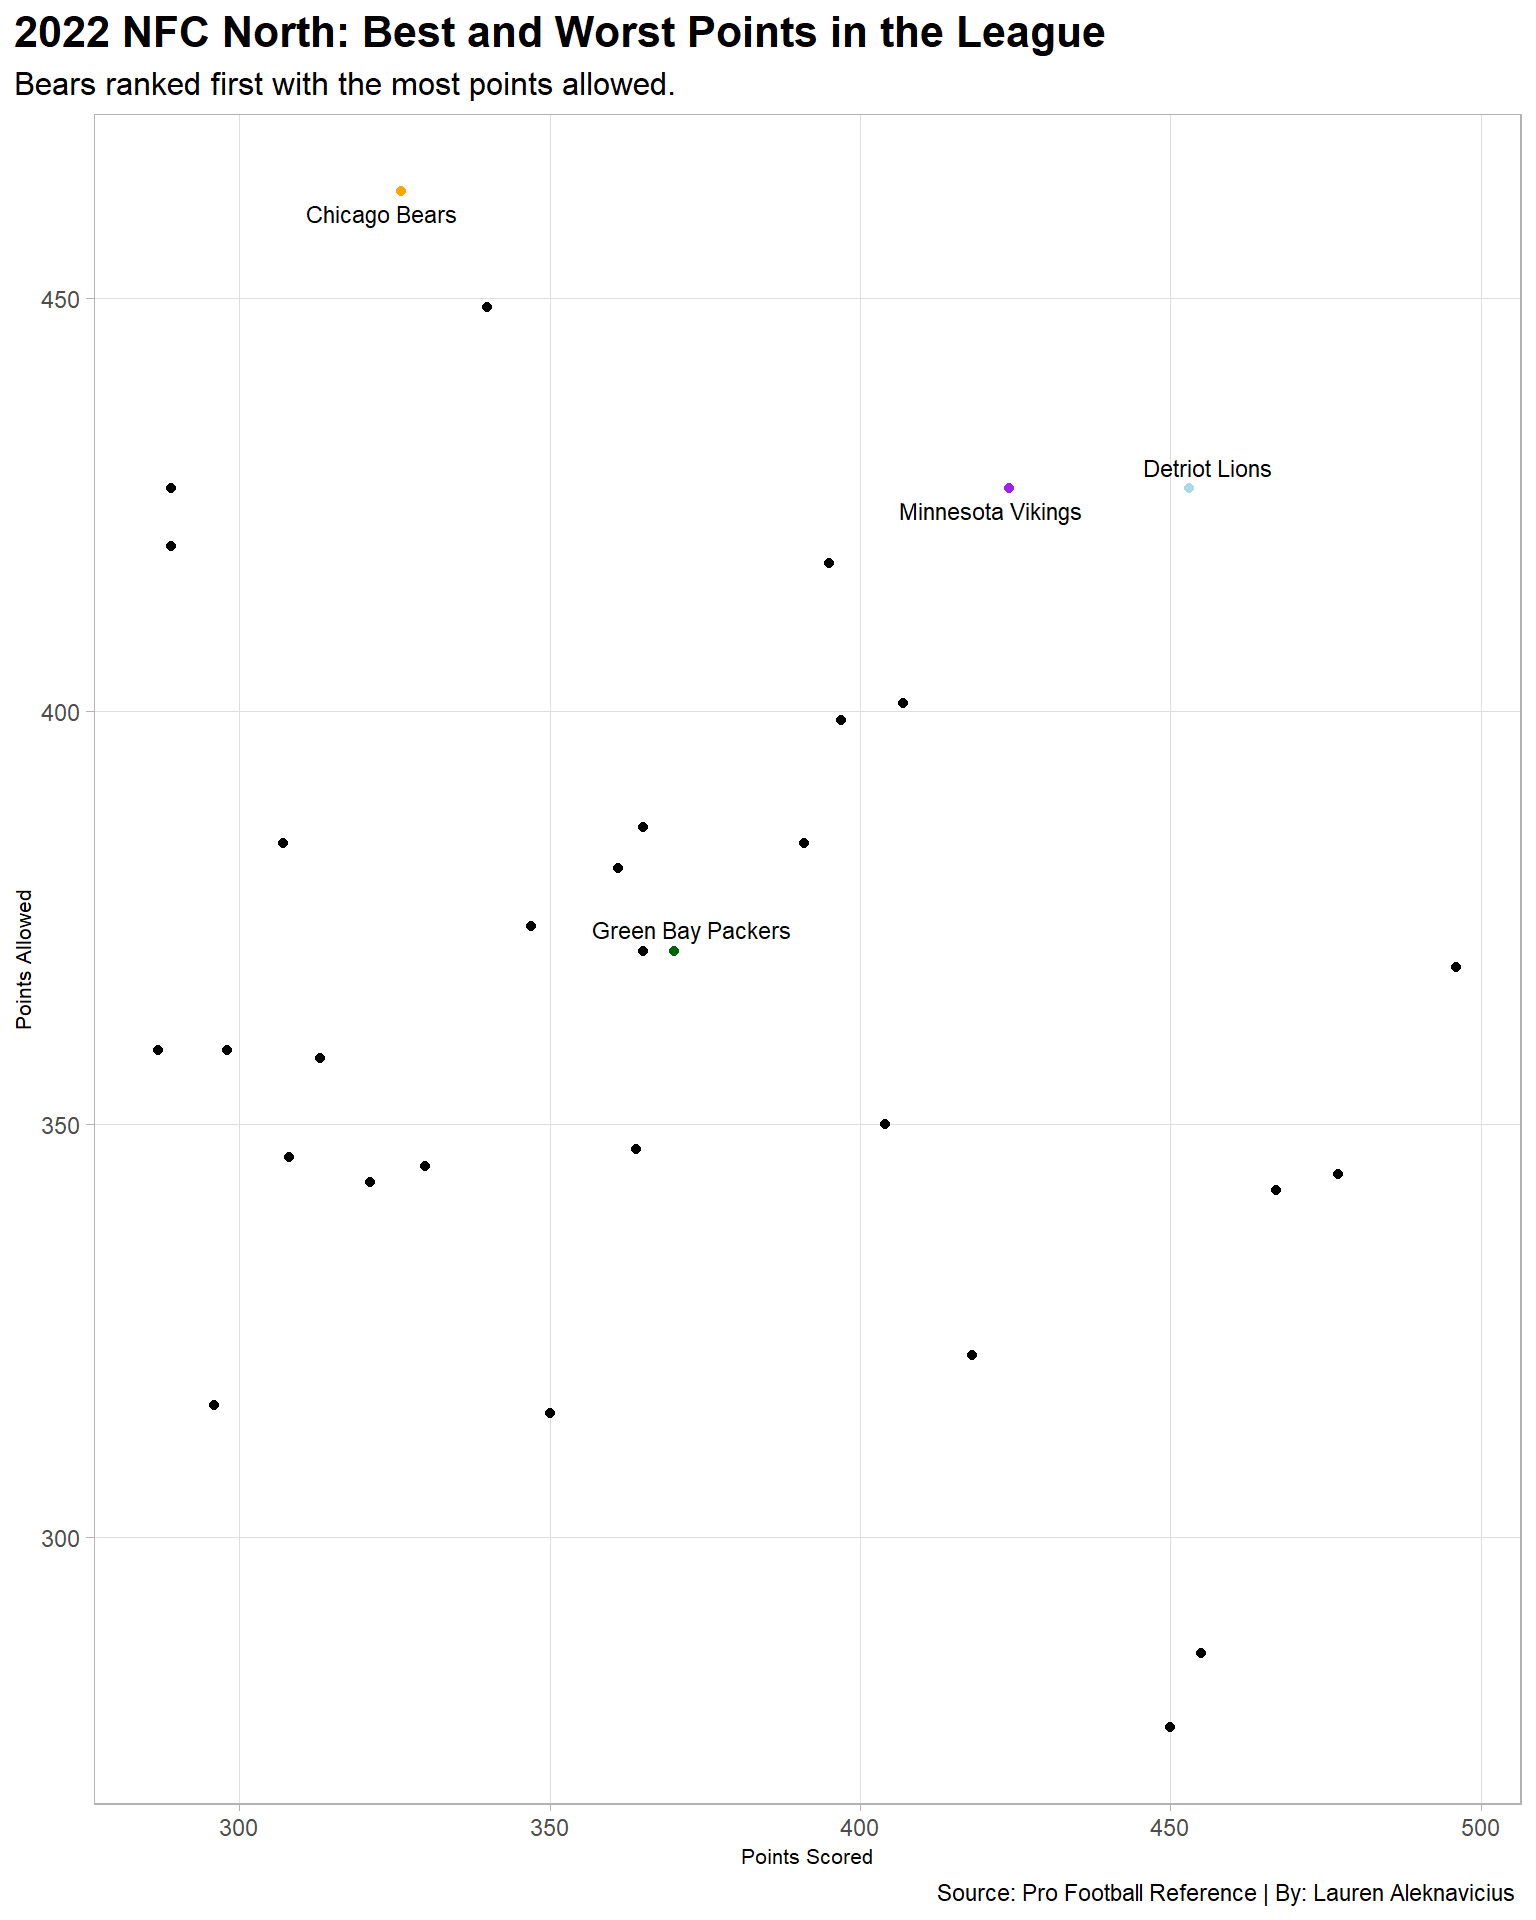
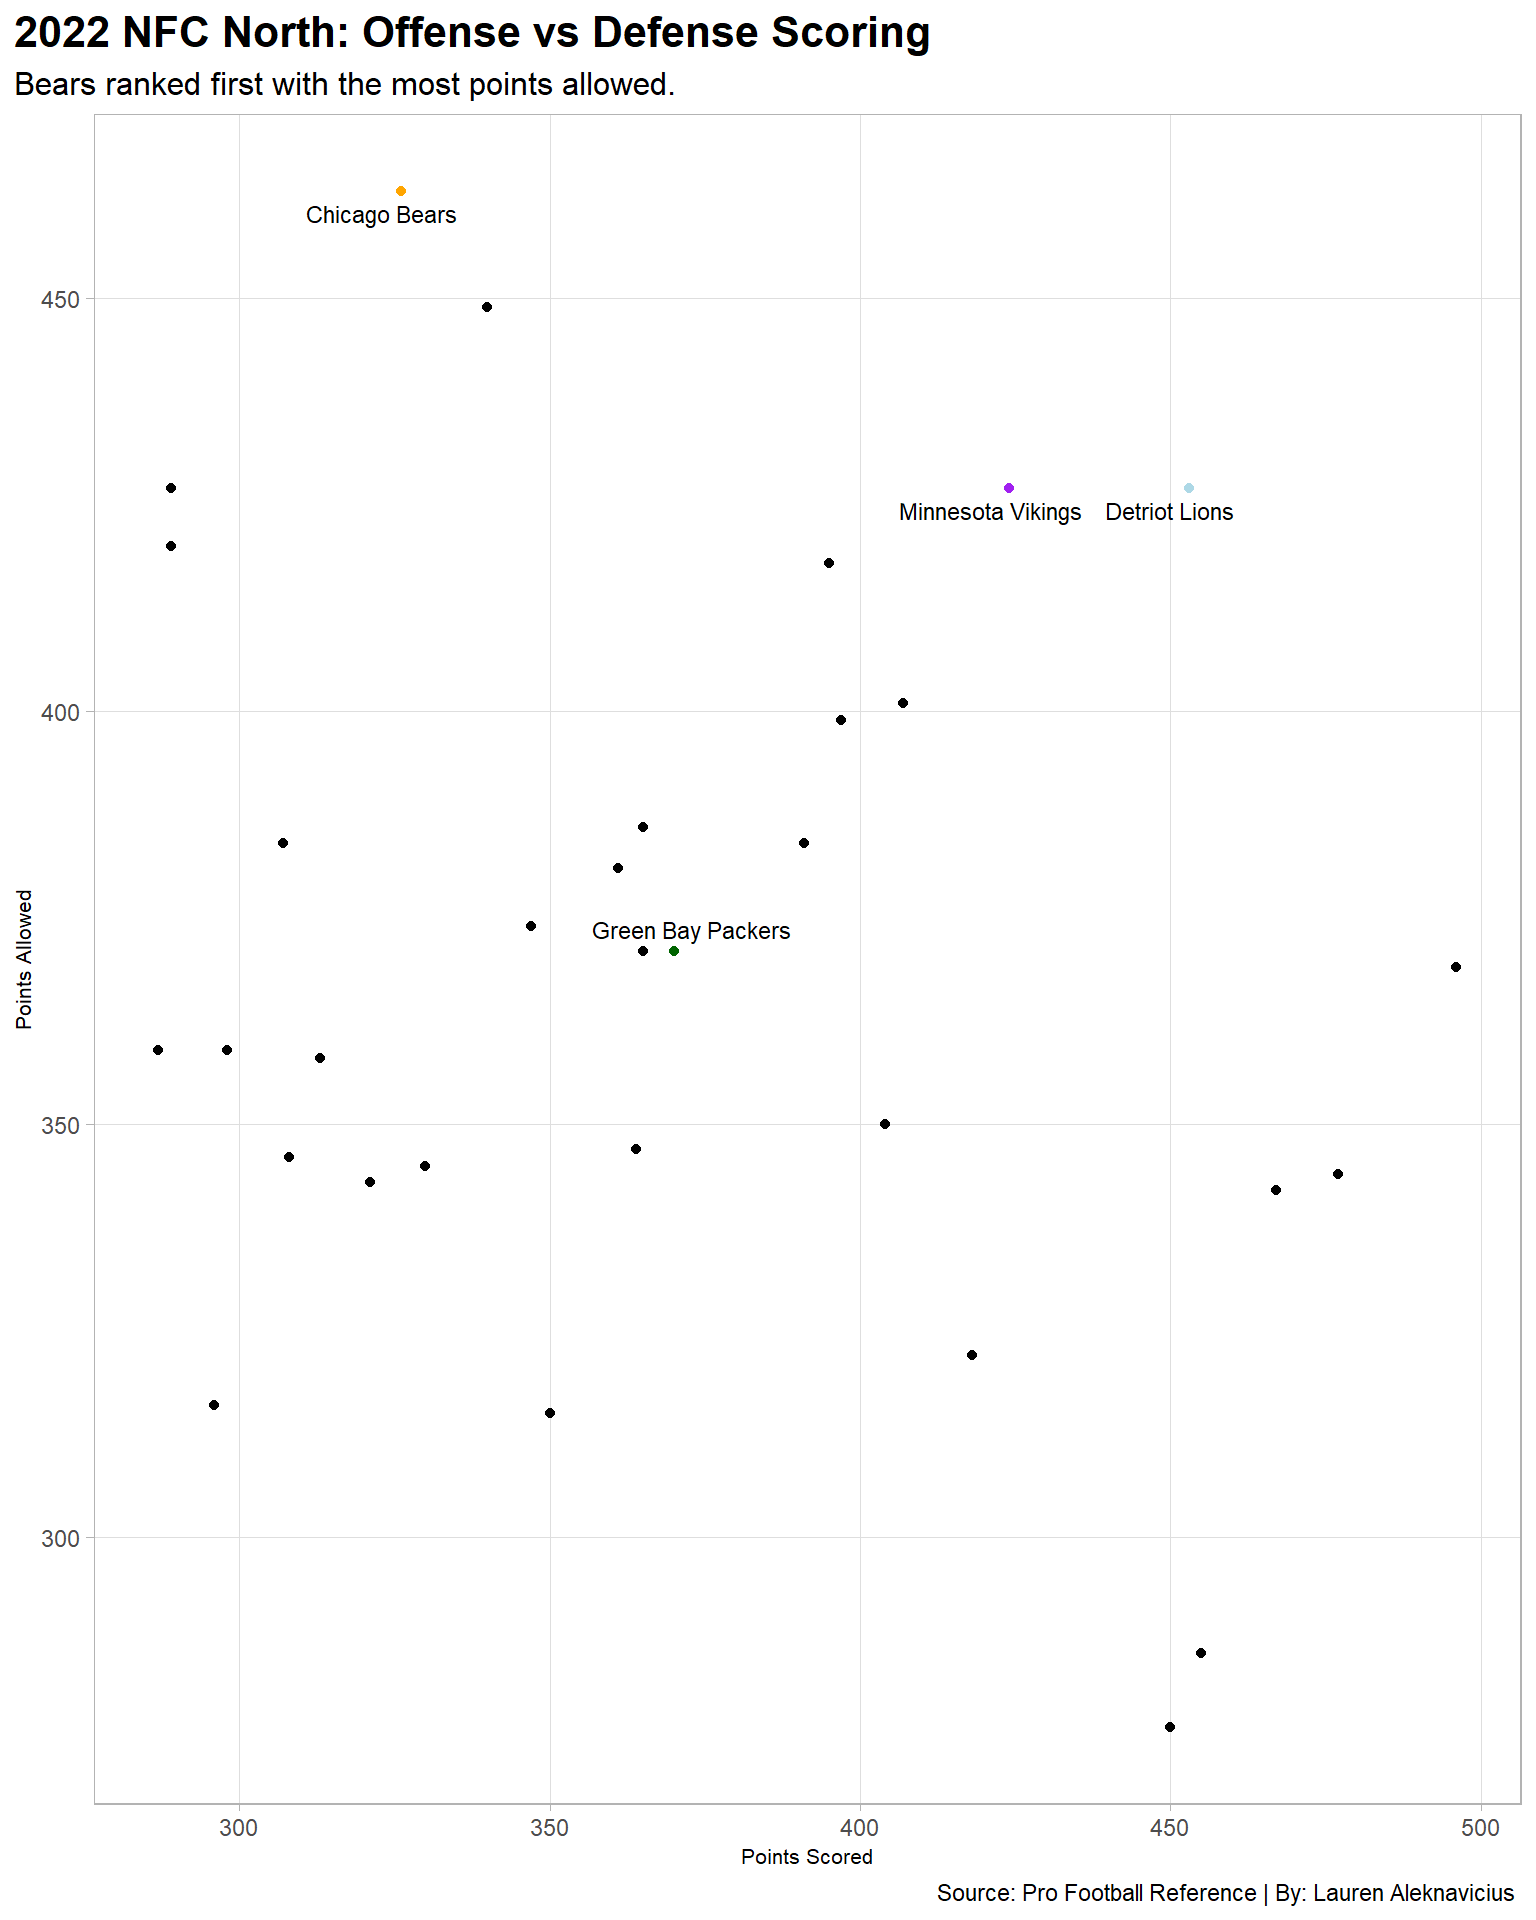
Chart headline

Changed region(s): [[0.25, 0.0, 0.7188, 0.0312], [0.7188, 0.2188, 0.8125, 0.2812]]

diff --git a/posts/middle-of-the-pack/index.html b/posts/middle-of-the-pack/index.html
@@ -369,7 +369,7 @@ pre > code.sourceCode > span > a:first-child::before { text-decoration: underlin
 <span id="cb3-25"><a href="#cb3-25" aria-hidden="true" tabindex="-1"></a>  <span class="fu">geom_text_repel</span>(<span class="at">data=</span>gbtd, <span class="fu">aes</span>(<span class="at">x=</span>PF, <span class="at">y=</span>PA, <span class="at">label=</span><span class="st">"Green Bay Packers"</span>), <span class="at">size=</span><span class="dv">3</span>) <span class="sc">+</span></span>
 <span id="cb3-26"><a href="#cb3-26" aria-hidden="true" tabindex="-1"></a>  <span class="fu">geom_text_repel</span>(<span class="at">data=</span>mntd, <span class="fu">aes</span>(<span class="at">x=</span>PF, <span class="at">y=</span>PA, <span class="at">label=</span><span class="st">"Minnesota Vikings"</span>), <span class="at">size=</span><span class="dv">3</span>) <span class="sc">+</span></span>
 <span id="cb3-27"><a href="#cb3-27" aria-hidden="true" tabindex="-1"></a>  <span class="fu">labs</span>(</span>
-<span id="cb3-28"><a href="#cb3-28" aria-hidden="true" tabindex="-1"></a>    <span class="at">title =</span> <span class="st">"2022 NFC North: Best and Worst Points in the League"</span>,</span>
+<span id="cb3-28"><a href="#cb3-28" aria-hidden="true" tabindex="-1"></a>    <span class="at">title =</span> <span class="st">"2022 NFC North: Offense vs Defense Scoring"</span>,</span>
 <span id="cb3-29"><a href="#cb3-29" aria-hidden="true" tabindex="-1"></a>    <span class="at">subtitle =</span> <span class="st">"Bears ranked first with the most points allowed."</span>,</span>
 <span id="cb3-30"><a href="#cb3-30" aria-hidden="true" tabindex="-1"></a>    <span class="at">caption =</span> <span class="st">"Source: Pro Football Reference | By: Lauren Aleknavicius "</span>,</span>
 <span id="cb3-31"><a href="#cb3-31" aria-hidden="true" tabindex="-1"></a>    <span class="at">x=</span> <span class="st">"Points Scored"</span>,</span>

diff --git a/index.html b/index.html
@@ -170,7 +170,7 @@ ul.task-list li input[type="checkbox"] {
 
 <div class="quarto-listing quarto-listing-container-default" id="listing-listing">
 <div class="list quarto-listing-default">
-<div class="quarto-post image-right" data-index="0" data-categories="football,sports,data" data-listing-date-sort="1699596000000" data-listing-file-modified-sort="1699631190006" data-listing-date-modified-sort="NaN" data-listing-reading-time-sort="6">
+<div class="quarto-post image-right" data-index="0" data-categories="football,sports,data" data-listing-date-sort="1699596000000" data-listing-file-modified-sort="1699631396477" data-listing-date-modified-sort="NaN" data-listing-reading-time-sort="6">
 <div class="thumbnail">
 <p><a href="./posts/middle-of-the-pack/index.html"> <img src="./posts/middle-of-the-pack/Chart1.png" class="thumbnail-image"> </a></p>
 </div>
